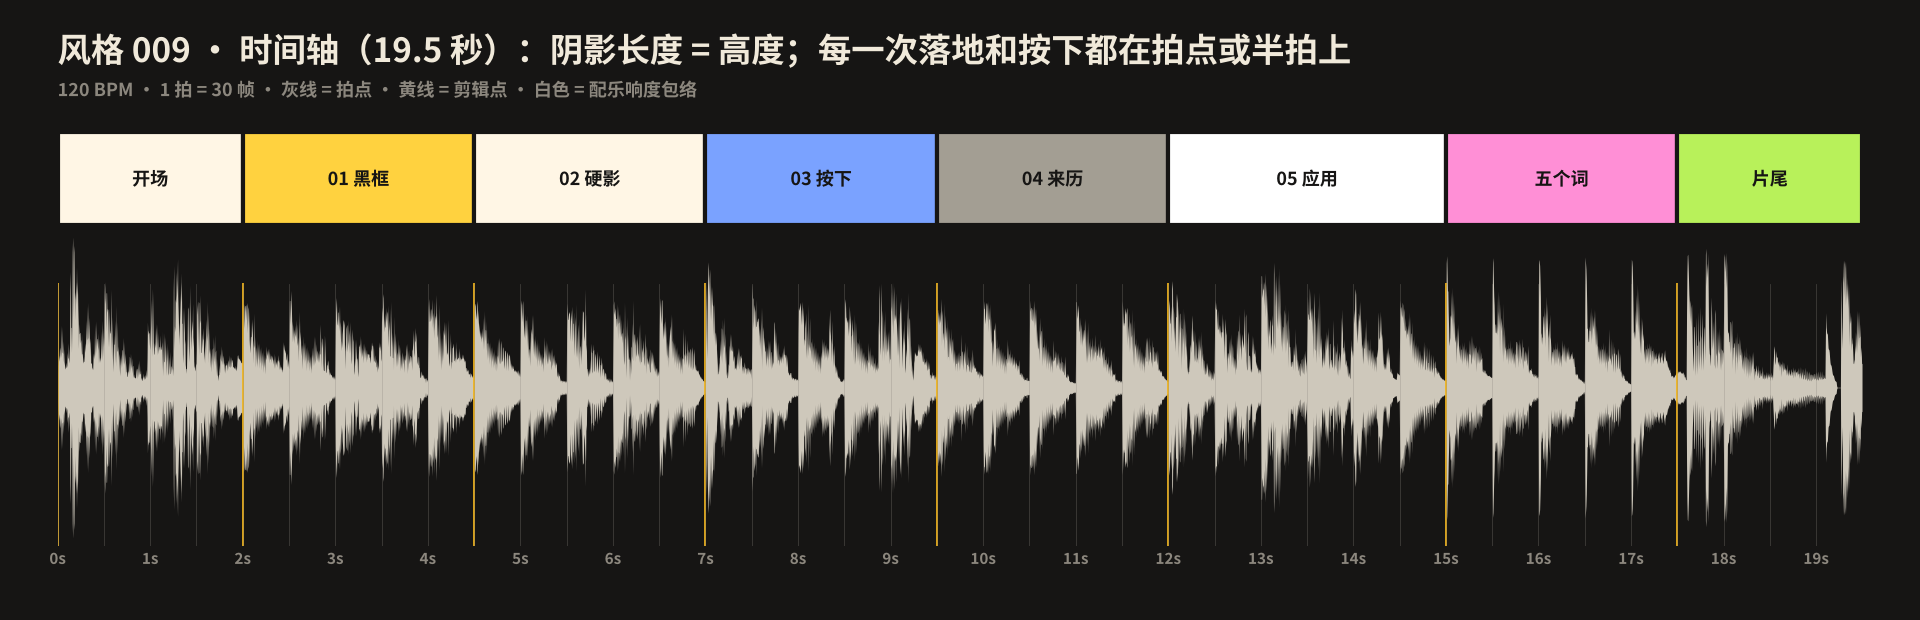
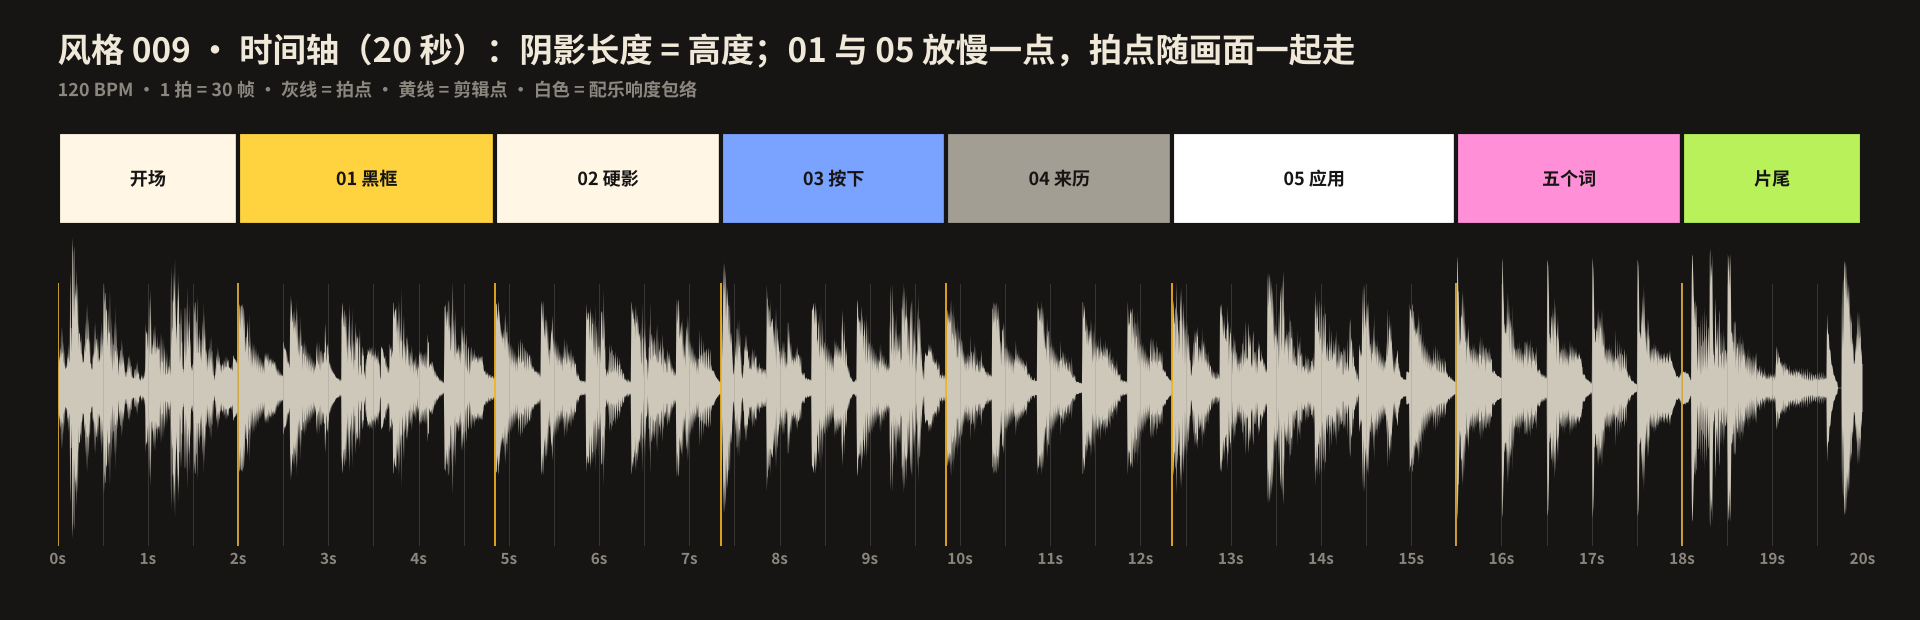
009 · 新粗野主义：01 与 05 放慢一点，成片 20 秒
* timeline.ts 新增 WARP（成片帧 → 源帧）：01 黑框 ×1.14、05 应用 ×1.05，其余不变；1170 → 1200 帧
* 配乐的 fr() 走同一张表，所有拍点、音效随画面一起放慢，仍然对齐；首尾仍是同一帧
* 时间轴、tokens、文档、过程图、封面与 pending 哈希同步

Claude-Session: https://claude.ai/code/session_01M6UTaiph5L5NAZjjyr2qu3

diff --git a/styles/009-neo-brutalism/video/NeoBrutalism.tsx b/styles/009-neo-brutalism/video/NeoBrutalism.tsx
@@ -1,15 +1,15 @@
 /**
- * Design Style · 风格 009 · 新粗野主义 Neo-Brutalism —— 19.5 秒短片（1920×1080 · 60fps · 120 BPM）
+ * Design Style · 风格 009 · 新粗野主义 Neo-Brutalism —— 20 秒短片（1920×1080 · 60fps · 120 BPM；01 与 05 放慢一点，见 timeline.ts 的 WARP）
  *
  * 全片只有一条物理：阴影长度 = 离纸面的高度 z。抬起来阴影变长，落下去缩回，按下去归零。
  *   0.0–2.0s   开场    第一帧 = 片尾海报（循环无缝）→ 一按就炸开 → 十三颗键帽浮上来、打字、一起按下 → 镜头钻进 O
- *   2.0–4.5s   01 黑框  画面是空的：笔先画框，元素一个个从框里长出来，拼成注册表单 → 画布向左甩
- *   4.5–7.0s   02 硬影  模糊 40 → 0；卡片抬起、落下；摊成五层阶梯 → 最高那张蓝卡撑满全屏
- *   7.0–9.5s   03 按下  二十颗按钮落下；按一下，按压像水波一样扩散；全部按下，褪成混凝土
- *   9.5–12.0s  04 来历  同一面网格：1952 清水混凝土 → 2014 粗野主义网页 → 2021 新粗野主义；年份里程表
- *  12.0–15.0s  05 应用  浏览器落地页 + 手机 App，一层层从高处落进来；光标在两边各按一下
- *  15.0–17.5s  五个词  黑框 / 硬影 / 平涂 / 露结构 / 歪一点
- *  17.5–19.5s  片尾    海报三块从高处落下，所有阴影一起按一下；署名 @guanmo_ai；最后一帧 = 第一帧
+ *   2.0–4.85s  01 黑框  画面是空的：笔先画框，元素一个个从框里长出来，拼成注册表单 → 画布向左甩
+ *   4.85–7.35s 02 硬影  模糊 40 → 0；卡片抬起、落下；摊成五层阶梯 → 最高那张蓝卡撑满全屏
+ *   7.35–9.85s 03 按下  二十颗按钮落下；按一下，按压像水波一样扩散；全部按下，褪成混凝土
+ *   9.85–12.35s 04 来历  同一面网格：1952 清水混凝土 → 2014 粗野主义网页 → 2021 新粗野主义；年份里程表
+ *  12.35–15.5s 05 应用  浏览器落地页 + 手机 App，一层层从高处落进来；光标在两边各按一下
+ *  15.5–18.0s  五个词  黑框 / 硬影 / 平涂 / 露结构 / 歪一点
+ *  18.0–20.0s  片尾    海报三块从高处落下，所有阴影一起按一下；署名 @guanmo_ai；最后一帧 = 第一帧
  */
 import React, {useEffect, useState} from 'react';
 import {AbsoluteFill, Audio, continueRender, delayRender, staticFile, useCurrentFrame} from 'remotion';
@@ -20,10 +20,10 @@ import {Opening} from './opening';
 import {Borders, Grid, Shadows} from './scenes';
 import {Apps} from './apps';
 import {End, Words} from './finale';
-import {AT, CHAPTERS, DURATION} from './timeline';
+import {AT, CHAPTERS, OUT_DURATION, toSource} from './timeline';
 import {WHIP, grot, loadFonts, mono, sc} from './ui';
 
-export const NEOBRUTAL_DURATION = DURATION;
+export const NEOBRUTAL_DURATION = OUT_DURATION;
 
 /** 顶部两枚“筹码”：左边风格名，右边章节；开场、五个词、片尾让开 */
 const Hud: React.FC<{f: number}> = ({f}) => {
@@ -66,7 +66,7 @@ const Hud: React.FC<{f: number}> = ({f}) => {
 };
 
 const Stage: React.FC = () => {
-  const f = useCurrentFrame();
+  const f = toSource(useCurrentFrame());
   const on = (a: number, b: number) => f >= a && f < b;
   // 01 → 02：同一张画布向左甩过去
   const whip = tween(f, AT.shadow - 18, 18, 0, 1, WHIP);

diff --git a/styles/009-neo-brutalism/video/timeline.ts b/styles/009-neo-brutalism/video/timeline.ts
@@ -9,7 +9,7 @@ export const AT = {
   words: 900, // 五个词：黑框 / 硬影 / 平涂 / 露结构 / 歪一点，一拍一张卡片叠上来
   end: 1050, // 片尾：海报三块从高处落下，全部阴影一起按一下 → 回到第一帧
 };
-export const DURATION = 1170; // 19.5 秒
+export const DURATION = 1170; // 源帧（19.5 秒）；成片见 OUT_DURATION
 export const BEAT = 30;
 export const WORD_AT = [0, 1, 2, 3, 4].map((i) => AT.words + i * 30);
 export const CHAPTERS: [string, string, number][] = [
@@ -19,3 +19,26 @@ export const CHAPTERS: [string, string, number][] = [
   ['来历', 'LINEAGE', AT.lineage],
   ['应用', 'IN USE', AT.apps],
 ];
+
+/**
+ * 成片时间 → 源时间（上面所有帧号都是“源帧”）。信息密的两章放慢一点：01 黑框 ×1.14、05 应用 ×1.05，
+ * 成片 1170 → 1200 帧（20 秒）。配乐用同一张表（audio/make_music.py 的 WARP），拍点仍然对齐
+ */
+export const WARP: [number, number, number][] = [
+  // [源起点, 源终点, 放慢倍数]
+  [0, AT.border, 1],
+  [AT.border, AT.shadow, 1.14],
+  [AT.shadow, AT.apps, 1],
+  [AT.apps, AT.words, 1.05],
+  [AT.words, DURATION, 1],
+];
+export const OUT_DURATION = Math.round(WARP.reduce((n, [a, b, k]) => n + (b - a) * k, 0)); // 1200
+export const toSource = (o: number) => {
+  let o0 = 0;
+  for (const [a, b, k] of WARP) {
+    const len = (b - a) * k;
+    if (o < o0 + len) return a + (o - o0) / k;
+    o0 += len;
+  }
+  return DURATION - 1 + (o - (OUT_DURATION - 1));
+};

diff --git a/styles/009-neo-brutalism/audio/make_music.py b/styles/009-neo-brutalism/audio/make_music.py
@@ -1,7 +1,7 @@
 """
 Design Style · 风格 009 · 新粗野主义 Neo-Brutalism —— 配乐与音效（纯代码合成，无外部音源）
 
-120 BPM（1 拍 = 0.5 秒 = 30 帧）· 19.5 秒 · E 小调 → G 大调
+120 BPM（1 拍 = 0.5 秒 = 30 帧；01、05 两章随画面放慢到约 105 / 114 BPM）· 20 秒 · E 小调 → G 大调
 和弦：开场只有键帽与重击 | Em（01）| C（02）| G（03）| D（04）| Em C（05）| C D Em C D（五个词，每拍一个）| G（片尾）
 音色：方波贝斯（只留奇次谐波，像一块没打磨的混凝土）、909 式底鼓 + 拍手、反拍的方波和弦“戳”、木琴旋律。
   0–2s       开场：f8 海报被按下 · f14 炸开 · 十三颗键帽依次落稳 · 一道打字的波 · f75 一起按下 · f84 一起弹起 · f96 钻进 O
@@ -26,7 +26,7 @@ import wave
 import numpy as np
 
 SR = 48000
-DUR = 19.5
+DUR = 20.0
 NV = int(SR * DUR)  # 成片长度
 N = int(SR * (DUR + 1.5))  # 多算 1.5 秒余音，最后折回开头：循环播放时首尾无缝
 rng = np.random.default_rng(2021)
@@ -38,8 +38,17 @@ PUMP = np.zeros((2, N))
 LEAD = np.zeros((2, N))
 
 
+# 源帧 → 成片秒数：与 video/timeline.ts 的 WARP 相同（01 黑框 ×1.14、05 应用 ×1.05）
+WARP = [(0, 120, 1.0), (120, 270, 1.14), (270, 720, 1.0), (720, 900, 1.05), (900, 1170, 1.0)]
+
+
 def fr(frame):
-    return frame / 60.0
+    o = 0.0
+    for a, b, k in WARP:
+        if frame < b:
+            return (o + (frame - a) * k) / 60.0
+        o += (b - a) * k
+    return (o + frame - WARP[-1][1]) / 60.0
 
 
 def place(sig, t, gain=1.0, pan=0.0, send=0.0, bus=None):

diff --git a/styles/009-neo-brutalism/README.md b/styles/009-neo-brutalism/README.md
@@ -121,9 +121,9 @@ transition: 100ms linear。颜色平涂 #FFD23F / #FF8FD6 / #B8F15A / #7AA2FF / 
 字体 Archivo 900 + Space Grotesk 700 + Space Mono + Noto Sans SC。令牌见 tokens.css。
 ```
 
-## 9 · 19.5 秒分镜
+## 9 · 20 秒分镜
 
-全片只有一条物理：**阴影长度 = 离纸面的高度**。东西抬起来，阴影变长、整块往左上浮；落下去，阴影缩回；按下去，阴影归零。键帽、笔、卡片、按钮全都按这一条动。换章不用淡入淡出，用同一个东西接力：钻进键帽 O 的孔、整张画布甩过去、最高的那张卡撑满全屏、同一面网格从按钮变成混凝土再变回按钮。每一次落地和按下都在 120 BPM 的拍点或半拍上。
+全片只有一条物理：**阴影长度 = 离纸面的高度**。东西抬起来，阴影变长、整块往左上浮；落下去，阴影缩回；按下去，阴影归零。键帽、笔、卡片、按钮全都按这一条动。换章不用淡入淡出，用同一个东西接力：钻进键帽 O 的孔、整张画布甩过去、最高的那张卡撑满全屏、同一面网格从按钮变成混凝土再变回按钮。每一次落地和按下都在拍点或半拍上（120 BPM；信息最密的 01 和 05 两章，画面和配乐一起放慢一点，约 105 / 114 BPM）。
 
 **为推特做的三件事：** 第一帧就是最好看的那一帧（片尾海报），0.15 秒内就有动作；首尾是同一帧、配乐的余音折回开头，自动循环时看不出接缝；静音也看得懂——每条规则都写在画面上，代码用 40px 的等宽大字。镜头不晃。
 
@@ -132,13 +132,13 @@ transition: 100ms linear。颜色平涂 #FFD23F / #FF8FD6 / #B8F15A / #7AA2FF / 
 | 时间 | 帧 | 章节 | 画面 | 教的是什么 |
 |---|---|---|---|---|
 | 0:00—2.0 | 0—120 | 开场 | 第一帧就是片尾海报；光标一按，海报炸开；十三颗巨型键帽 N·E·O-B·R·U·T·A·L·I·S·M 浮上来、由中间向两边落稳；一道打字的波按过去；十三颗一起按下、一起弹起；镜头钻进 O 的孔 | 硬阴影 = 能按 |
-| 2.0—4.5 | 120—270 | 01 黑框 | 画面是空的：一支笔先画框，颜色从框里灌满、文字弹出、阴影落下——表单、输入框、开关、复选框、按钮一个个长出来，拼成一张注册表单；光标按下“注册”，「✓ 欢迎入伙」落下；画布向左甩 | 先有框，才有元素 |
-| 4.5—7.0 | 270—420 | 02 硬影 | 模糊从 40 拉到 0；卡片抬起（阴影 14 → 52）再落下；摊开成五层阶梯（4 / 8 / 14 / 24 / 40）；最高那张蓝卡撑满全屏 | 层级 = 偏移量 |
-| 7.0—9.5 | 420—570 | 03 按下 | 二十颗按钮从上面落下；点一下，按压像水波一样扩散；从角上再来一波；按一颗，全部按下，颜色褪成混凝土 | 本期最有用的一招 |
-| 9.5—12.0 | 570—720 | 04 来历 | 同一面网格接着讲：混凝土长出窗洞（1952 马赛公寓）→ 翻牌成 2014 年的默认网页 → 重新弹起成 2021 年的按钮；年份像里程表一样滚 | 它从哪来 |
-| 12.0—15.0 | 720—900 | 05 应用 | 浏览器从高处落下：导航、两行巨型标题、贴纸、按钮、三张功能卡依次落进来，底部字幕条一直在走；手机落到右边，余额从 0 数到 3,280、列表依次落下；光标在网页按“开始使用”，再到手机按“+ 记一笔” | 网页和 App 里长什么样 |
-| 15.0—17.5 | 900—1050 | 五个词 | 黑框 / 硬影 / 平涂 / 露结构 / 歪一点：一拍一张整屏卡片从高处落下（阴影由长变短），叠成一摞 | 五条规则 |
-| 17.5—19.5 | 1050—1170 | 片尾 | 整叠卡片掉下去；NEO / BRUTAL / ISM 从高处落下；贴纸、署名；光标一按，所有阴影一起归零再弹回——回到第一帧 | — |
+| 2.0—4.85 | 120—291 | 01 黑框 | 画面是空的：一支笔先画框，颜色从框里灌满、文字弹出、阴影落下——表单、输入框、开关、复选框、按钮一个个长出来，拼成一张注册表单；光标按下“注册”，「✓ 欢迎入伙」落下；画布向左甩 | 先有框，才有元素 |
+| 4.85—7.35 | 291—441 | 02 硬影 | 模糊从 40 拉到 0；卡片抬起（阴影 14 → 52）再落下；摊开成五层阶梯（4 / 8 / 14 / 24 / 40）；最高那张蓝卡撑满全屏 | 层级 = 偏移量 |
+| 7.35—9.85 | 441—591 | 03 按下 | 二十颗按钮从上面落下；点一下，按压像水波一样扩散；从角上再来一波；按一颗，全部按下，颜色褪成混凝土 | 本期最有用的一招 |
+| 9.85—12.35 | 591—741 | 04 来历 | 同一面网格接着讲：混凝土长出窗洞（1952 马赛公寓）→ 翻牌成 2014 年的默认网页 → 重新弹起成 2021 年的按钮；年份像里程表一样滚 | 它从哪来 |
+| 12.35—15.5 | 741—930 | 05 应用 | 浏览器从高处落下：导航、两行巨型标题、贴纸、按钮、三张功能卡依次落进来，底部字幕条一直在走；手机落到右边，余额从 0 数到 3,280、列表依次落下；光标在网页按“开始使用”，再到手机按“+ 记一笔” | 网页和 App 里长什么样 |
+| 15.5—18.0 | 930—1080 | 五个词 | 黑框 / 硬影 / 平涂 / 露结构 / 歪一点：一拍一张整屏卡片从高处落下（阴影由长变短），叠成一摞 | 五条规则 |
+| 18.0—20.0 | 1080—1200 | 片尾 | 整叠卡片掉下去；NEO / BRUTAL / ISM 从高处落下；贴纸、署名；光标一按，所有阴影一起归零再弹回——回到第一帧 | — |
 
 ## 10 · 文件
 
@@ -151,8 +151,8 @@ transition: 100ms linear。颜色平涂 #FFD23F / #FF8FD6 / #B8F15A / #7AA2FF / 
 ├─ video/NeoBrutalism.tsx       # 主合成、HUD、运动模糊、配乐
 ├─ video/opening.tsx            # 0—2 秒：海报炸开 → 十三颗键帽 → 钻进 O
 ├─ video/scenes.tsx             # 2—10 秒：笔、抬起与阶梯、按钮水波 → 混凝土 → 网页 → 按钮
-├─ video/apps.tsx               # 12—15 秒：网页落地页 + 手机 App
-├─ video/finale.tsx             # 15—19.5 秒：五个词、片尾
+├─ video/apps.tsx               # 12.35—15.5 秒：网页落地页 + 手机 App
+├─ video/finale.tsx             # 15.5—20 秒：五个词、片尾
 ├─ video/ui.tsx · timeline.ts   # 硬阴影 Box（高度 z）、落地、甩镜缓动、光标、点阵
 ├─ audio/make_music.py
 └─ images/make_svgs.py          # poster / cheatsheet / app-ui / steps

diff --git a/styles/009-neo-brutalism/PROCESS.md b/styles/009-neo-brutalism/PROCESS.md
@@ -2,7 +2,7 @@
 
 **中文** · [English](PROCESS.en.md)
 
-> 这一期是怎么从三个候选风格里选出来，再变成 19.5 秒短片和 4 张图的。
+> 这一期是怎么从三个候选风格里选出来，再变成 20 秒短片和 4 张图的。
 > 过程图在 [`process/`](process)，可复现的代码在 `video/` `audio/` `images/`。
 
 🎬 [看成片（Releases · day-09）](https://github.com/guanmo-ai/design-style/releases/tag/day-09) · 📐 [风格指南](README.md)
@@ -75,7 +75,7 @@
 
 ## 5 · 分镜与节拍
 
-时间轴见 [`process/timeline.json`](process/timeline.json)。7 段，每一次砸和按都写成帧号，落在拍点或半拍上。逐段表见 [风格指南 §9](README.md#9--195-秒分镜)。
+时间轴见 [`process/timeline.json`](process/timeline.json)。7 段，每一次砸和按都写成帧号，落在拍点或半拍上。逐段表见 [风格指南 §9](README.md#9--20-秒分镜)。
 
 | 过程图 | 内容 |
 |---|---|
@@ -120,6 +120,7 @@ npm run images:009
 | 每一次落地都用衰减正弦晃镜头，再加 15% 过冲的弹簧，整片一直在颤 | 去掉所有 `shake`，只在六个关键落地点用单向的 `thud`（往下沉一下、不来回）；弹簧阻尼 13 → 17，过冲降到约 5% |
 | 第二版审片：中间的“没写 CSS 的网页”不好看；整体动效不如前几期惊艳 | 对照 002 / 004 / 008 抽帧：它们都有一个贯穿全片的接力元素、每一刻只有一个巨大的主角、镜头在动。重写为：键帽（开场）→ 一支笔（01）→ 抬起与阶梯（02）→ 同一面网格从按钮变混凝土、网页、再变回按钮（03—04）；全片改用“高度 z”一条物理；换章用钻进 O、整张画布甩过去、最高的卡撑满全屏 |
 | 第三版审片：01 黑框右边的组件是事先摆好的，只有笔在动；节奏太快看不清；少了网页和 App 里的样子 | 01 改为画面全空，笔先画框，元素从框里一个个长出来，拼成注册表单；中间各章放到 2.5 秒，总长 15 → 19.5 秒；新增 05 应用：浏览器落地页 + 手机记账 App，一层层从高处落进来 |
+| 第四版审片：节奏还是稍快，01 黑框里看不清 | 不改结构，只在信息最密的两章放慢：01 ×1.14、05 ×1.05（`timeline.ts` 的 `WARP`），成片 19.5 → 20 秒；配乐的每个事件走同一张时间表，拍点和画面仍然对齐 |
 | 手机上看，代码和说明太小 | 代码从小编辑器改成黑底 40px 代码条；章节代码 30 → 40px、说明 34 → 42px、HUD 22 → 26px；打完字的光标不再闪 |
 | 低透明度大面积色块在 Chromium 里分块 | 图里的半透明一律预先算成实色 |
 

diff --git a/styles/009-neo-brutalism/README.en.md b/styles/009-neo-brutalism/README.en.md
@@ -6,7 +6,7 @@
 
 ## Overview
 
-Black borders on everything, shadows that are solid offset blocks, flat saturated color. A 19.5-second film runs on one piece of physics — shadow length is height. It opens on its own end card; press it and it shatters into thirteen giant keycaps that land, get typed and pressed, and the camera dives into the O. Then, on an empty canvas, a pen draws each frame first and a sign-up form grows out of the borders one element at a time, a card lifts and fans into a staircase of shadows, and a grid of twenty buttons ripples when pressed, drains into 1952 raw concrete, flips into a 2014 brutalist web page, and pops back as 2021 UI. Finally a landing page and a phone app assemble layer by layer, so you see the style in real interfaces.
+Black borders on everything, shadows that are solid offset blocks, flat saturated color. A 20-second film runs on one piece of physics — shadow length is height. It opens on its own end card; press it and it shatters into thirteen giant keycaps that land, get typed and pressed, and the camera dives into the O. Then, on an empty canvas, a pen draws each frame first and a sign-up form grows out of the borders one element at a time, a card lifts and fans into a staircase of shadows, and a grid of twenty buttons ripples when pressed, drains into 1952 raw concrete, flips into a 2014 brutalist web page, and pops back as 2021 UI. Finally a landing page and a phone app assemble layer by layer, so you see the style in real interfaces.
 
 Series: **Design styles**. Period shown: **2021—today** (roots in 1950s Brutalist architecture).
 
@@ -59,7 +59,7 @@ Series: **Design styles**. Period shown: **2021—today** (roots in 1950s Brutal
 |---|---|
 | Canvas | 1920 × 1080 |
 | Frame rate | 60 fps |
-| Duration | 19.5 s / 1170 frames |
+| Duration | 20 s / 1200 frames (chapters 01 and 05 run slightly slower) |
 | Tempo | 120 BPM (every slam and press lands on a beat or half-beat) |
 | Loop | First frame = last frame; the music’s tail folds back into the start, so autoplay loops are seamless |
 

diff --git a/styles/009-neo-brutalism/PROCESS.en.md b/styles/009-neo-brutalism/PROCESS.en.md
@@ -21,7 +21,7 @@ All motion follows one rule: **shadow length = height z**. Lift an element and i
 ## Workflow
 
 1. Read the [English guide](README.en.md). The through-line is “shadow length = height”: every element lifts, lands and presses by the same rule.
-2. Use `process/timeline.json` for chapter timing. Segments cover all 1170 frames; every hit is a frame number on a beat or half-beat.
+2. Use `process/timeline.json` for chapter timing. Segments cover all 1200 frames; every hit is a frame number on a beat or half-beat.
 3. Build `video/` in Remotion: `opening.tsx`, `scenes.tsx` (border, shadow, press, lineage), `apps.tsx` (landing page + phone app), `finale.tsx` (five words, end card).
 4. Generate audio with `audio/make_music.py` (NumPy only; no sample libraries).
 5. Build the four sheets from `images/make_svgs.py`.
@@ -33,7 +33,7 @@ All motion follows one rule: **shadow length = height z**. Lift an element and i
 |---|---|
 | Canvas | 1920 × 1080 |
 | Frame rate | 60 fps |
-| Duration | 19.5 seconds / 1170 frames |
+| Duration | 20 seconds / 1200 frames |
 | Tempo | 120 BPM |
 | Motion blur | 120° shutter, 8 samples |
 
